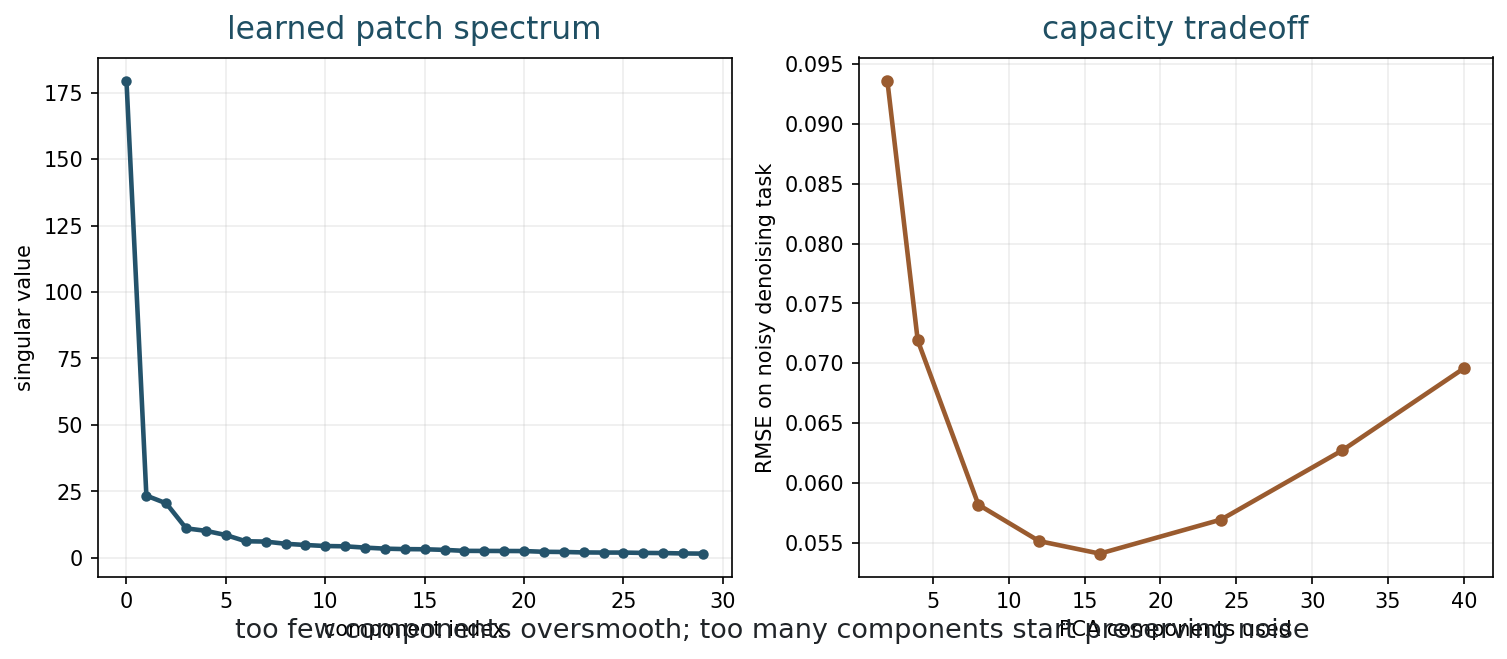
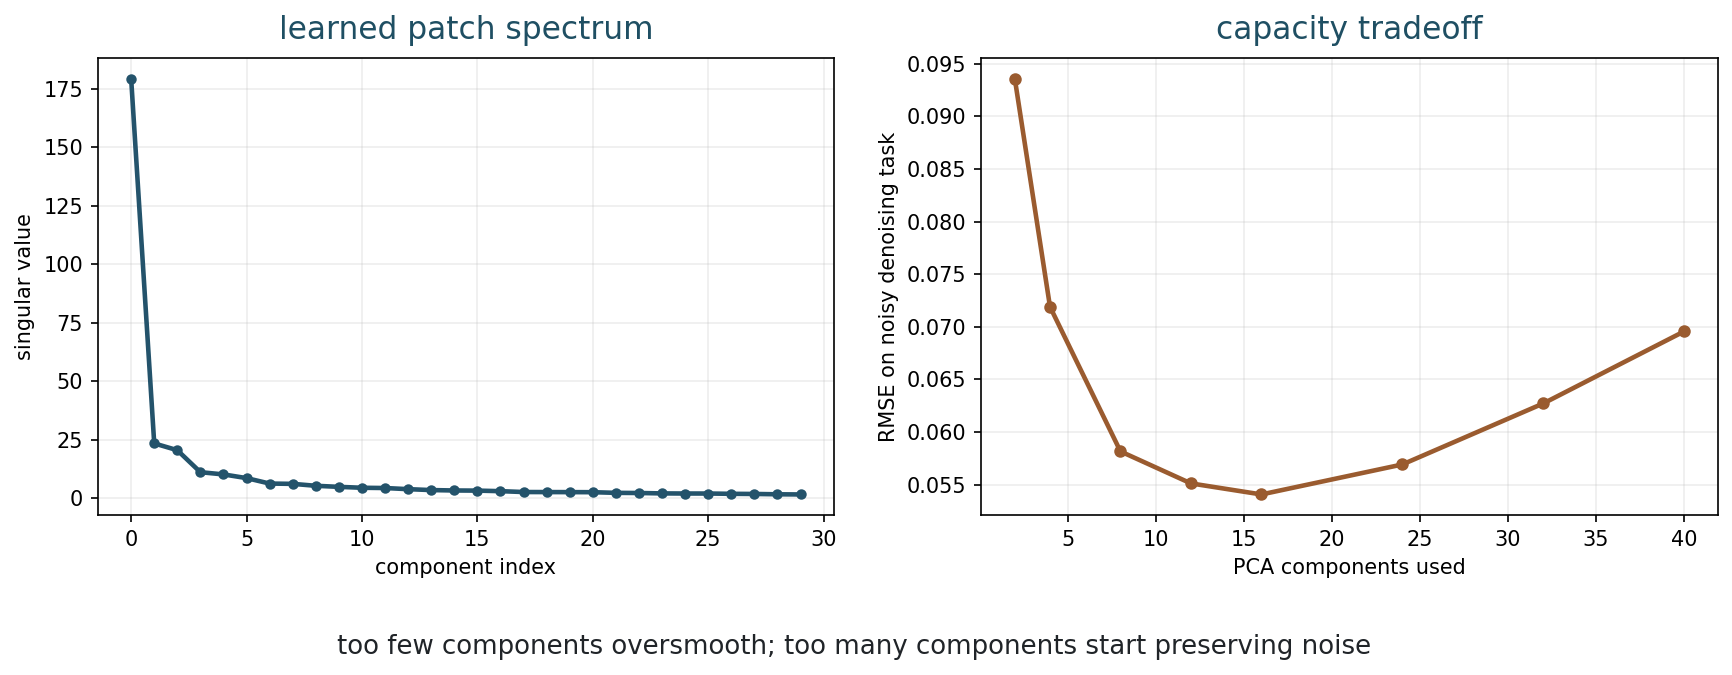
Built site for gh-pages

diff --git a/slides/week-01-image-formation.html b/slides/week-01-image-formation.html
@@ -439,7 +439,7 @@ x \mapsto Ax.
 </section>
 <section id="first-numpy-representation" class="slide level2 code-small">
 <h2>First NumPy Representation</h2>
-<div id="8ea2330e" class="cell">
+<div id="988a8760" class="cell">
 <div class="code-copy-outer-scaffold"><div class="sourceCode cell-code" id="cb2"><pre class="sourceCode numberSource python number-lines code-with-copy"><code class="sourceCode python"><span id="cb2-1"><a></a><span class="im">import</span> numpy <span class="im">as</span> np</span>
 <span id="cb2-2"><a></a></span>
 <span id="cb2-3"><a></a>m, n <span class="op">=</span> <span class="dv">4</span>, <span class="dv">5</span></span>
@@ -458,7 +458,7 @@ x \mapsto Ax.
 <section id="vectorization-convention" class="slide level2">
 <h2>Vectorization Convention</h2>
 <p>NumPy uses row-major order by default:</p>
-<div id="e315a78c" class="cell">
+<div id="fc68b42e" class="cell">
 <div class="code-copy-outer-scaffold"><div class="sourceCode cell-code" id="cb3"><pre class="sourceCode numberSource python number-lines code-with-copy"><code class="sourceCode python"><span id="cb3-1"><a></a>U <span class="op">=</span> np.array([[<span class="dv">1</span>, <span class="dv">2</span>, <span class="dv">3</span>],</span>
 <span id="cb3-2"><a></a>              [<span class="dv">4</span>, <span class="dv">5</span>, <span class="dv">6</span>]])</span>
 <span id="cb3-3"><a></a></span>
@@ -686,7 +686,7 @@ x = A^{-1}y.
 <section id="a-toy-masking-operator" class="slide level2">
 <h2>A Toy Masking Operator</h2>
 <p>Suppose a fixed set of pixels is measured.</p>
-<div id="8dc00192" class="cell">
+<div id="380b60e0" class="cell">
 <div class="code-copy-outer-scaffold"><div class="sourceCode cell-code" id="cb4"><pre class="sourceCode numberSource python number-lines code-with-copy"><code class="sourceCode python"><span id="cb4-1"><a></a><span class="im">import</span> numpy <span class="im">as</span> np</span>
 <span id="cb4-2"><a></a></span>
 <span id="cb4-3"><a></a>x <span class="op">=</span> np.linspace(<span class="dv">0</span>, <span class="dv">1</span>, <span class="dv">12</span>)</span>
@@ -761,7 +761,7 @@ x.
 </section>
 <section id="python-demo-masking-a-real-image" class="slide level2 code-small">
 <h2>Python Demo: Masking a Real Image</h2>
-<div id="7105fdb3" class="cell">
+<div id="d28cf6b9" class="cell">
 <div class="code-copy-outer-scaffold"><div class="sourceCode cell-code" id="cb5"><pre class="sourceCode numberSource python number-lines code-with-copy"><code class="sourceCode python"><span id="cb5-1"><a></a><span class="im">from</span> skimage <span class="im">import</span> data</span>
 <span id="cb5-2"><a></a><span class="im">import</span> numpy <span class="im">as</span> np</span>
 <span id="cb5-3"><a></a></span>

diff --git a/slides/week-03-fourier-imaging.html b/slides/week-03-fourier-imaging.html
@@ -429,7 +429,7 @@ x[n] = \sin(2\pi 5n/N) + 0.5\sin(2\pi 20n/N).
 <section id="what-fft-returns" class="slide level2">
 <h2>What FFT Returns</h2>
 <div class="code-small">
-<div id="5444535a" class="cell">
+<div id="b9c0c19b" class="cell">
 <div class="code-copy-outer-scaffold"><div class="sourceCode cell-code" id="cb1"><pre class="sourceCode numberSource python number-lines code-with-copy"><code class="sourceCode python"><span id="cb1-1"><a></a><span class="im">import</span> numpy <span class="im">as</span> np</span>
 <span id="cb1-2"><a></a></span>
 <span id="cb1-3"><a></a>spectrum <span class="op">=</span> np.fft.fft(signal)</span>
@@ -468,7 +468,7 @@ x[n] = \sin(2\pi 5n/N) + 0.5\sin(2\pi 20n/N).
 <p>Most software places the zero frequency at the corner.</p>
 <p>For visualization, we often use:</p>
 <div class="code-small">
-<div id="296ac11d" class="cell">
+<div id="feb6f920" class="cell">
 <div class="code-copy-outer-scaffold"><div class="sourceCode cell-code" id="cb2"><pre class="sourceCode numberSource python number-lines code-with-copy"><code class="sourceCode python"><span id="cb2-1"><a></a>F <span class="op">=</span> np.fft.fft2(image)</span>
 <span id="cb2-2"><a></a>F_centered <span class="op">=</span> np.fft.fftshift(F)</span>
 <span id="cb2-3"><a></a>log_magnitude <span class="op">=</span> np.log1p(np.<span class="bu">abs</span>(F_centered))</span></code></pre></div><button title="Copy to Clipboard" class="code-copy-button"><i class="bi"></i></button></div>
@@ -538,7 +538,7 @@ x[n] = \sin(2\pi 5n/N) + 0.5\sin(2\pi 20n/N).
 </section>
 <section id="python-demo-spectrum-of-an-image" class="slide level2 code-small">
 <h2>Python Demo: Spectrum of an Image</h2>
-<div id="49a6bb88" class="cell">
+<div id="e1b12f23" class="cell">
 <div class="code-copy-outer-scaffold"><div class="sourceCode cell-code" id="cb3"><pre class="sourceCode numberSource python number-lines code-with-copy"><code class="sourceCode python"><span id="cb3-1"><a></a><span class="im">from</span> skimage <span class="im">import</span> data</span>
 <span id="cb3-2"><a></a><span class="im">import</span> numpy <span class="im">as</span> np</span>
 <span id="cb3-3"><a></a></span>

diff --git a/slides/week-06-tikhonov-regularization.html b/slides/week-06-tikhonov-regularization.html
@@ -486,7 +486,7 @@ x_\lambda
 </section>
 <section id="python-demo-normal-equations" class="slide level2 code-small">
 <h2>Python Demo: Normal Equations</h2>
-<div id="b8a8b779" class="cell">
+<div id="6a094695" class="cell">
 <div class="code-copy-outer-scaffold"><div class="sourceCode cell-code" id="cb1"><pre class="sourceCode numberSource python number-lines code-with-copy"><code class="sourceCode python"><span id="cb1-1"><a></a>lhs <span class="op">=</span> A.T <span class="op">@</span> A <span class="op">+</span> lam <span class="op">*</span> np.eye(n)</span>
 <span id="cb1-2"><a></a>rhs <span class="op">=</span> A.T <span class="op">@</span> y</span>
 <span id="cb1-3"><a></a>x_lam <span class="op">=</span> np.linalg.solve(lhs, rhs)</span></code></pre></div><button title="Copy to Clipboard" class="code-copy-button"><i class="bi"></i></button></div>

diff --git a/slides/week-02-convolution-blur.html b/slides/week-02-convolution-blur.html
@@ -511,7 +511,7 @@ y = h * x
 </section>
 <section id="python-demo-blur-a-real-image" class="slide level2 code-small">
 <h2>Python Demo: Blur a Real Image</h2>
-<div id="82c86ba0" class="cell">
+<div id="0da373dc" class="cell">
 <div class="code-copy-outer-scaffold"><div class="sourceCode cell-code" id="cb1"><pre class="sourceCode numberSource python number-lines code-with-copy"><code class="sourceCode python"><span id="cb1-1"><a></a><span class="im">from</span> skimage <span class="im">import</span> data</span>
 <span id="cb1-2"><a></a><span class="im">from</span> scipy <span class="im">import</span> signal</span>
 <span id="cb1-3"><a></a><span class="im">import</span> numpy <span class="im">as</span> np</span>

diff --git a/slides/week-04-noise-likelihood.html b/slides/week-04-noise-likelihood.html
@@ -515,7 +515,7 @@ y = f(x)+\eta,
 </section>
 <section id="python-demo-gaussian-noise" class="slide level2 code-small">
 <h2>Python Demo: Gaussian Noise</h2>
-<div id="4073e19b" class="cell">
+<div id="e777787a" class="cell">
 <div class="code-copy-outer-scaffold"><div class="sourceCode cell-code" id="cb1"><pre class="sourceCode numberSource python number-lines code-with-copy"><code class="sourceCode python"><span id="cb1-1"><a></a><span class="im">import</span> numpy <span class="im">as</span> np</span>
 <span id="cb1-2"><a></a><span class="im">from</span> skimage <span class="im">import</span> data</span>
 <span id="cb1-3"><a></a></span>

diff --git a/book/week-12-model-data.html b/book/week-12-model-data.html
@@ -740,7 +740,7 @@ x^{k+1}
 <p>The number of retained PCA components controls model capacity.</p>
 <div class="figure">
 <p><img src="../assets/figures/week12-capacity-curve.png" class="img-fluid" alt="Patch PCA singular spectrum and denoising RMSE versus number of components"></p>
-<p>Too few components oversmooth; too many components preserve noise.</p>
+<p>The error curve has a useful middle region: too little capacity removes image detail, while too much capacity begins to preserve noise.</p>
 </div>
 <p>If the learned prior is trained on one image family and tested on another, performance can change.</p>
 <div class="figure">

diff --git a/examples/make_week12_figures.py b/examples/make_week12_figures.py
@@ -162,7 +162,8 @@ def make_capacity_curve(path: Path) -> None:
         for count in counts
     ]
 
-    fig, axes = plt.subplots(1, 2, figsize=(12.0, 4.5), dpi=150)
+    fig, axes = plt.subplots(1, 2, figsize=(12.0, 5.0), dpi=150)
+    fig.subplots_adjust(left=0.08, right=0.98, top=0.85, bottom=0.24, wspace=0.20)
     axes[0].plot(singular_values[:30], "-o", color="#24536b", linewidth=2.2, markersize=4)
     axes[0].set_title("learned patch spectrum", fontsize=15, color="#1f4f63", pad=9)
     axes[0].set_xlabel("component index")
@@ -174,7 +175,14 @@ def make_capacity_curve(path: Path) -> None:
     axes[1].set_xlabel("PCA components used")
     axes[1].set_ylabel("RMSE on noisy denoising task")
     axes[1].grid(True, alpha=0.22)
-    fig.text(0.5, 0.02, "too few components oversmooth; too many components start preserving noise", ha="center", fontsize=13, color="#202428")
+    fig.text(
+        0.5,
+        0.055,
+        "too few components oversmooth; too many components start preserving noise",
+        ha="center",
+        fontsize=12.5,
+        color="#202428",
+    )
     save(fig, path)
 
 
